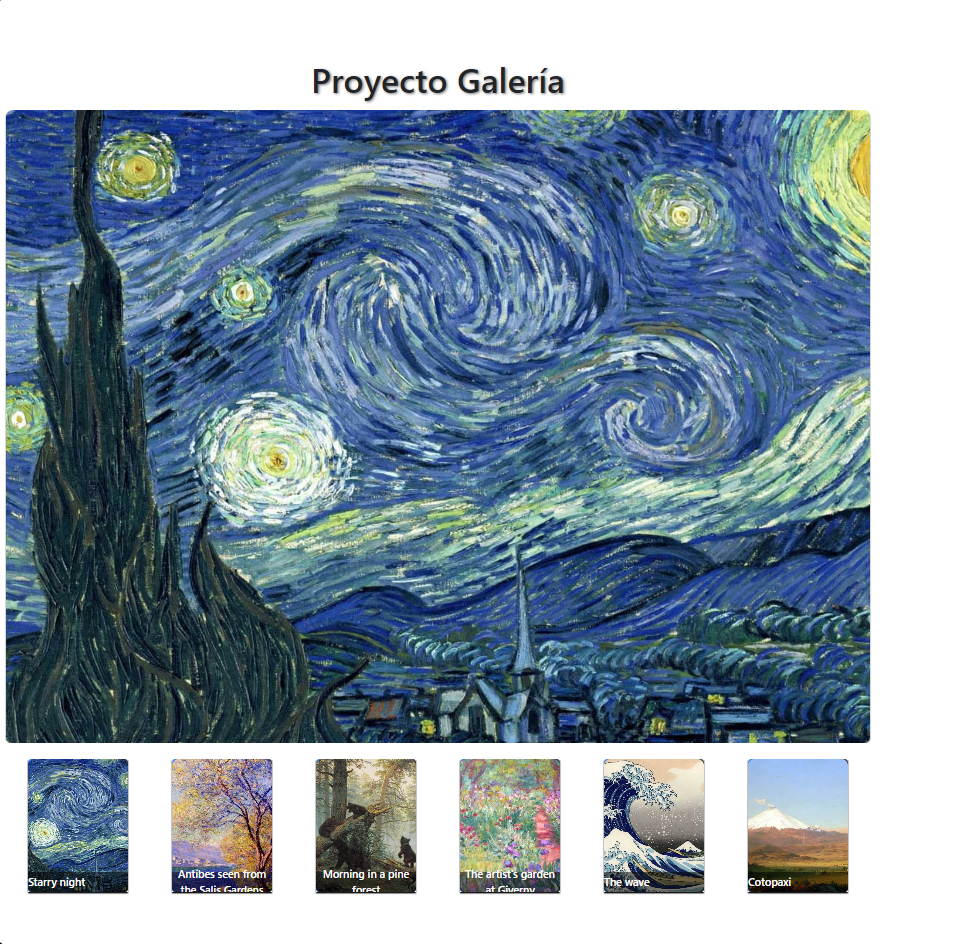
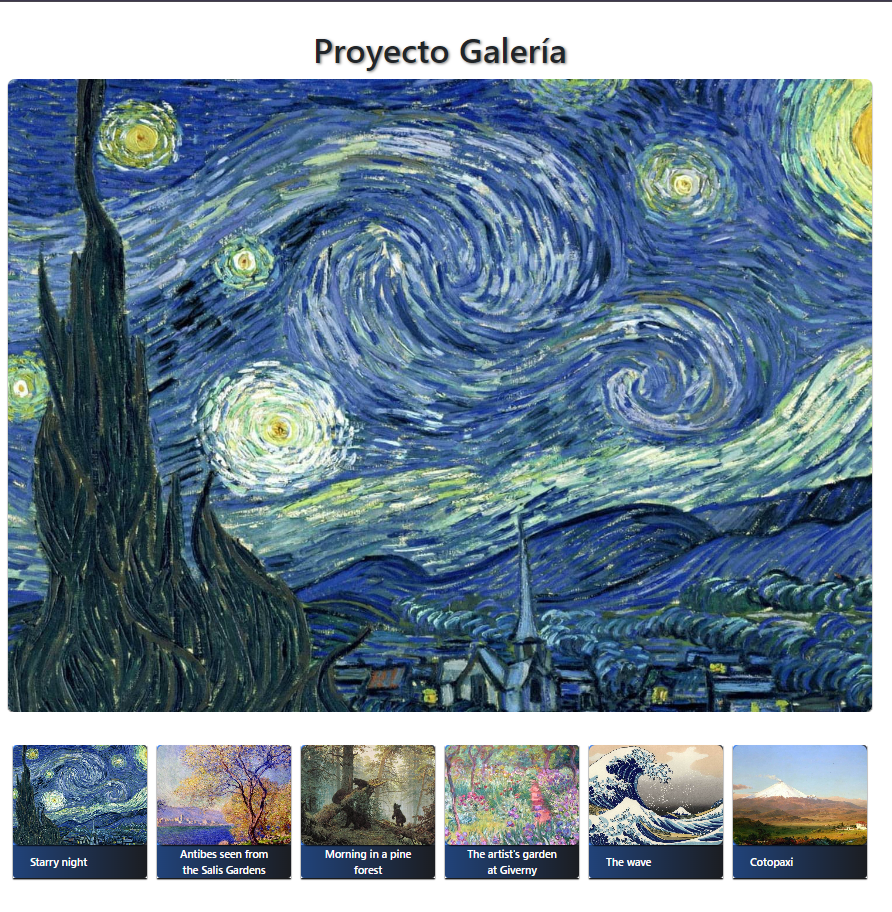
CSS fixes

diff --git a/src/App.css b/src/App.css
@@ -7,7 +7,7 @@
 }
 
 .image-size {
-  width: 150px;
+  width: 200px;
   height: 200px;
   border-radius: 5px;
   overflow: hidden; /*Asegura que la imagen no se salga del contenerdor */
@@ -17,7 +17,7 @@
 }
 
 .father {
-  height: 200px;  /* Ajusta la altura del contenedor para acomodar el texto */
+  height: 250px;  /* Ajusta la altura del contenedor para acomodar el texto */
   display: flex;
   flex-direction: row;
   justify-content: space-around;
@@ -27,7 +27,7 @@
 }
 
 .links {
-  margin: 0;
+  margin: 5px;
   padding: 0;
   text-decoration: none;
   color: white;
@@ -58,20 +58,19 @@
 }
 
 figcaption {
-  height: 30px;
+  height: 0px;
   display: flex;
   align-items: center;
   background-color: rgba(0,0,0,0.5);
   color: white;
-  position: absolute;
+  position: ;
   bottom: 0;
-  width: 100%;
   margin: 0;
-  padding: 0;
+  padding: 25px;
 }
 figure {
   justify-content: center;
-  height: 100%;
+  height: 20%;
   display: flex;
   flex-direction: column;
   background: #373B44;  
